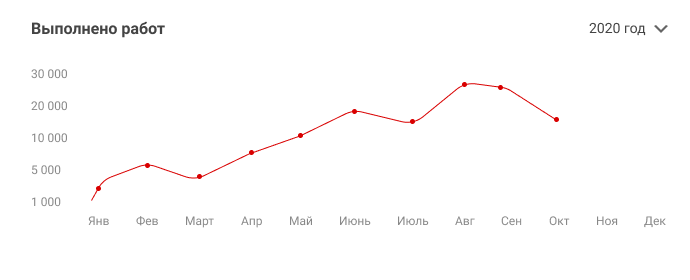
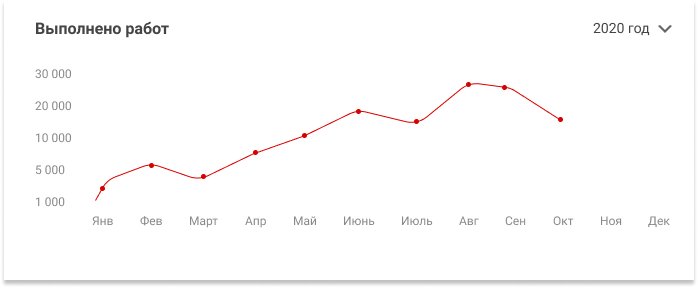
analitics

diff --git a/frontend/app/src/features/dashboard/components/adminPanel/adminPanel.tsx b/frontend/app/src/features/dashboard/components/adminPanel/adminPanel.tsx
@@ -3,12 +3,46 @@ import React from 'react'
 import styles from './adminPanel.module.scss'
 
 import graph from '../../images/graph.png'
+import circleGraph from '../../images/circleGraph.png'
 
 const AdminPanel = () => {
   return (
     <div className={styles.wrapper}>
       <h2 className={styles.header}>Доска аналитики</h2>
-      <img className={styles.image} src={graph} alt=''></img>
+      <div className={styles.analitics}>
+        <img className={styles.analiticsImage} src={graph} alt=''></img>
+        <img className={styles.analiticsImage} src={circleGraph} alt=''></img>
+        <div className={styles.analiticsBlock}>
+          <p className={styles.quantity}>348 368</p>
+          <p className={styles.completeTask}>Дорог отремонтировано</p>
+        </div>
+        <div className={styles.analiticsBlock}>
+          <p className={styles.quantity}>475</p>
+          <p className={styles.completeTask}>Дорог осталось отремонтировать</p>
+        </div>
+        <div className={styles.analiticsBlock}>
+          <p className={styles.quantity}>14 868 901</p>
+          <p className={styles.completeTask}>Рублей потрачено</p>
+        </div>
+        <div className={styles.analiticsBlock}>
+          <p className={styles.quantity}>4,7/5</p>
+          <p className={styles.completeTask}>Качество выполненных работ</p>
+        </div>
+        <div className={styles.analiticsBlock}>
+          <h3 className={styles.dataHeader}>Последние сформированные отчеты</h3>
+          <ul className={styles.dataList}>
+            <li className={styles.dataItem}>
+              Отчет за месяц по СВАО<time className={styles.dataTime}>22.10.20</time>
+            </li>
+            <li className={styles.dataItem}>
+              Отчет о выполнении работ за год<time className={styles.dataTime}>18.09.20</time>
+            </li>
+            <li className={styles.dataItem}>
+              Отчет о выполнении работ за год<time className={styles.dataTime}>18.09.20</time>
+            </li>
+          </ul>
+        </div>
+      </div>
     </div>
   )
 }

diff --git a/frontend/app/src/features/dashboard/components/adminPanel/adminPanel.module.scss b/frontend/app/src/features/dashboard/components/adminPanel/adminPanel.module.scss
@@ -10,5 +10,44 @@
         font-size: 24px;
         line-height: 28px;
         color: #444444;
+        margin-bottom: 22px;
+    }
+    .analitics {
+        display: flex;
+        flex-wrap: wrap;
+    }
+    .analiticsImage {
+        margin-bottom: 22px;
+        margin-right: 21px;
+    }
+    .analiticsBlock {
+        min-width: 250px;
+        margin-bottom: 22px;
+        margin-right: 21px;
+        padding-left: 31px;
+        padding-top: 19px;
+        padding-right: 24px;
+        padding-bottom: 24px;
+        height: 100px;
+        left: 36px;
+        top: 436px;
+        background: #ffffff;
+        box-shadow: 0px 4px 4px rgba(0, 0, 0, 0.25);
+    }
+    .quantity {
+        font-family: Roboto;
+        font-style: normal;
+        font-weight: normal;
+        font-size: 30px;
+        line-height: 35px;
+        color: #444444;
+    }
+    .completeTask {
+        font-family: Roboto;
+        font-style: normal;
+        font-weight: normal;
+        font-size: 14px;
+        line-height: 16px;
+        color: #888888;
     }
 }
